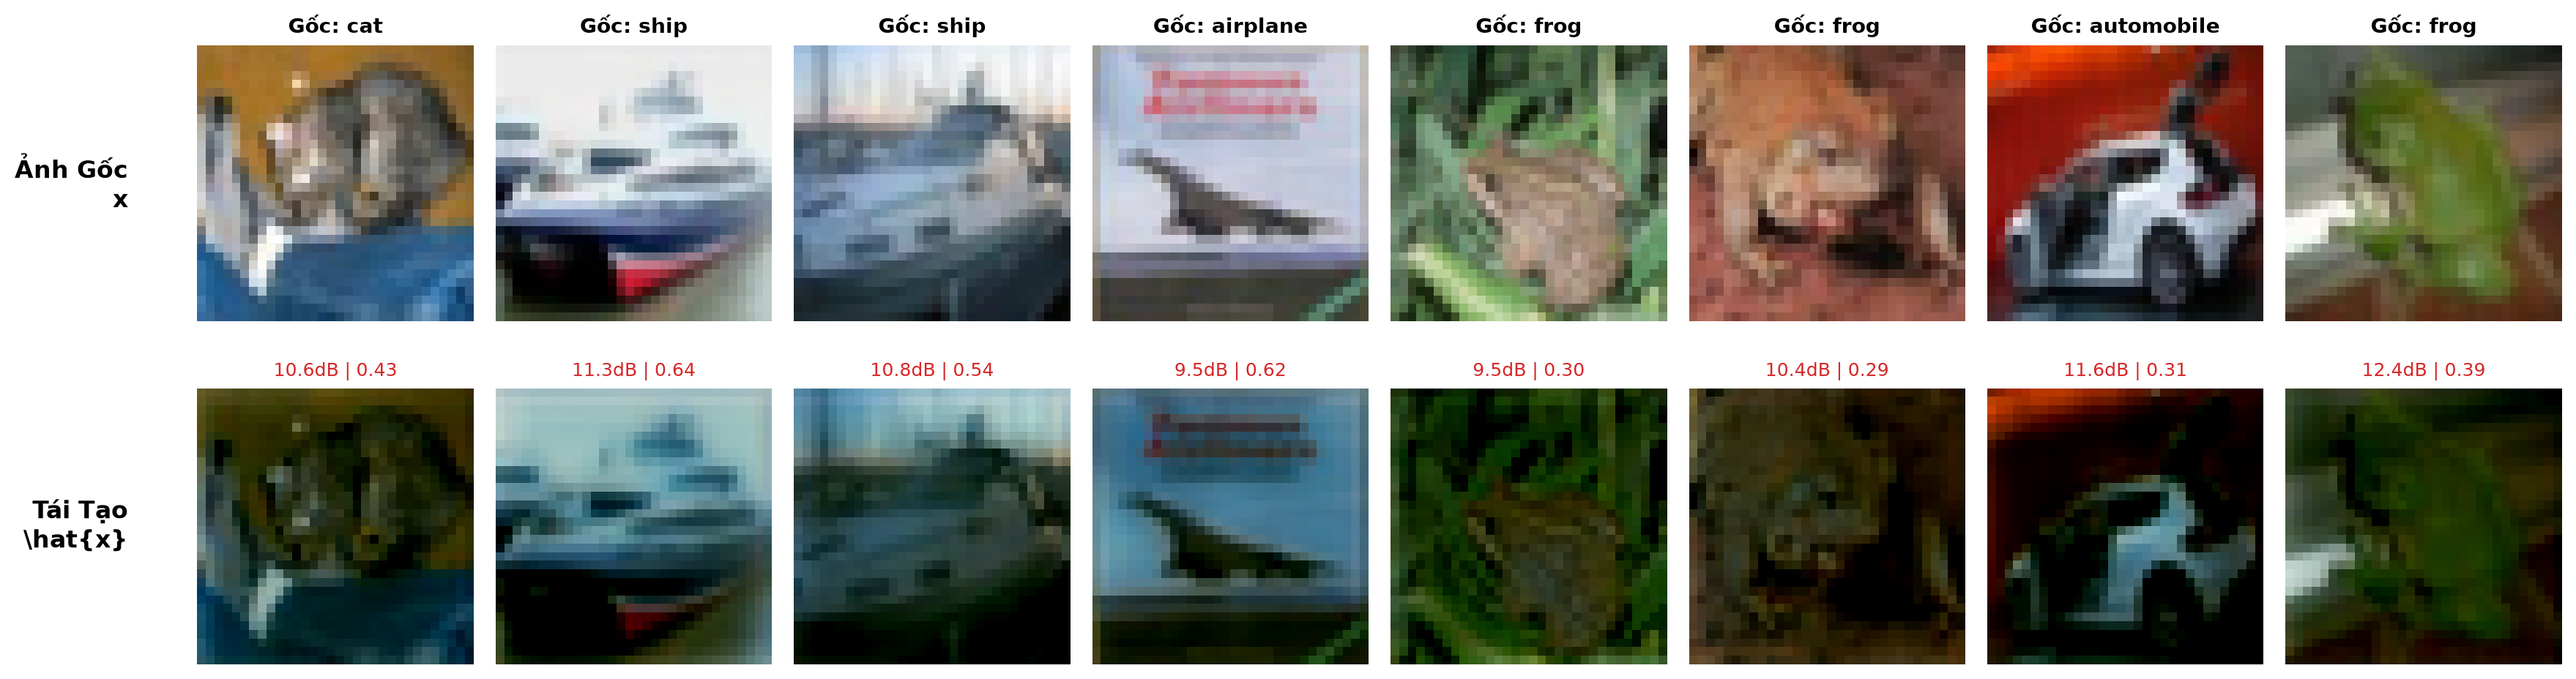
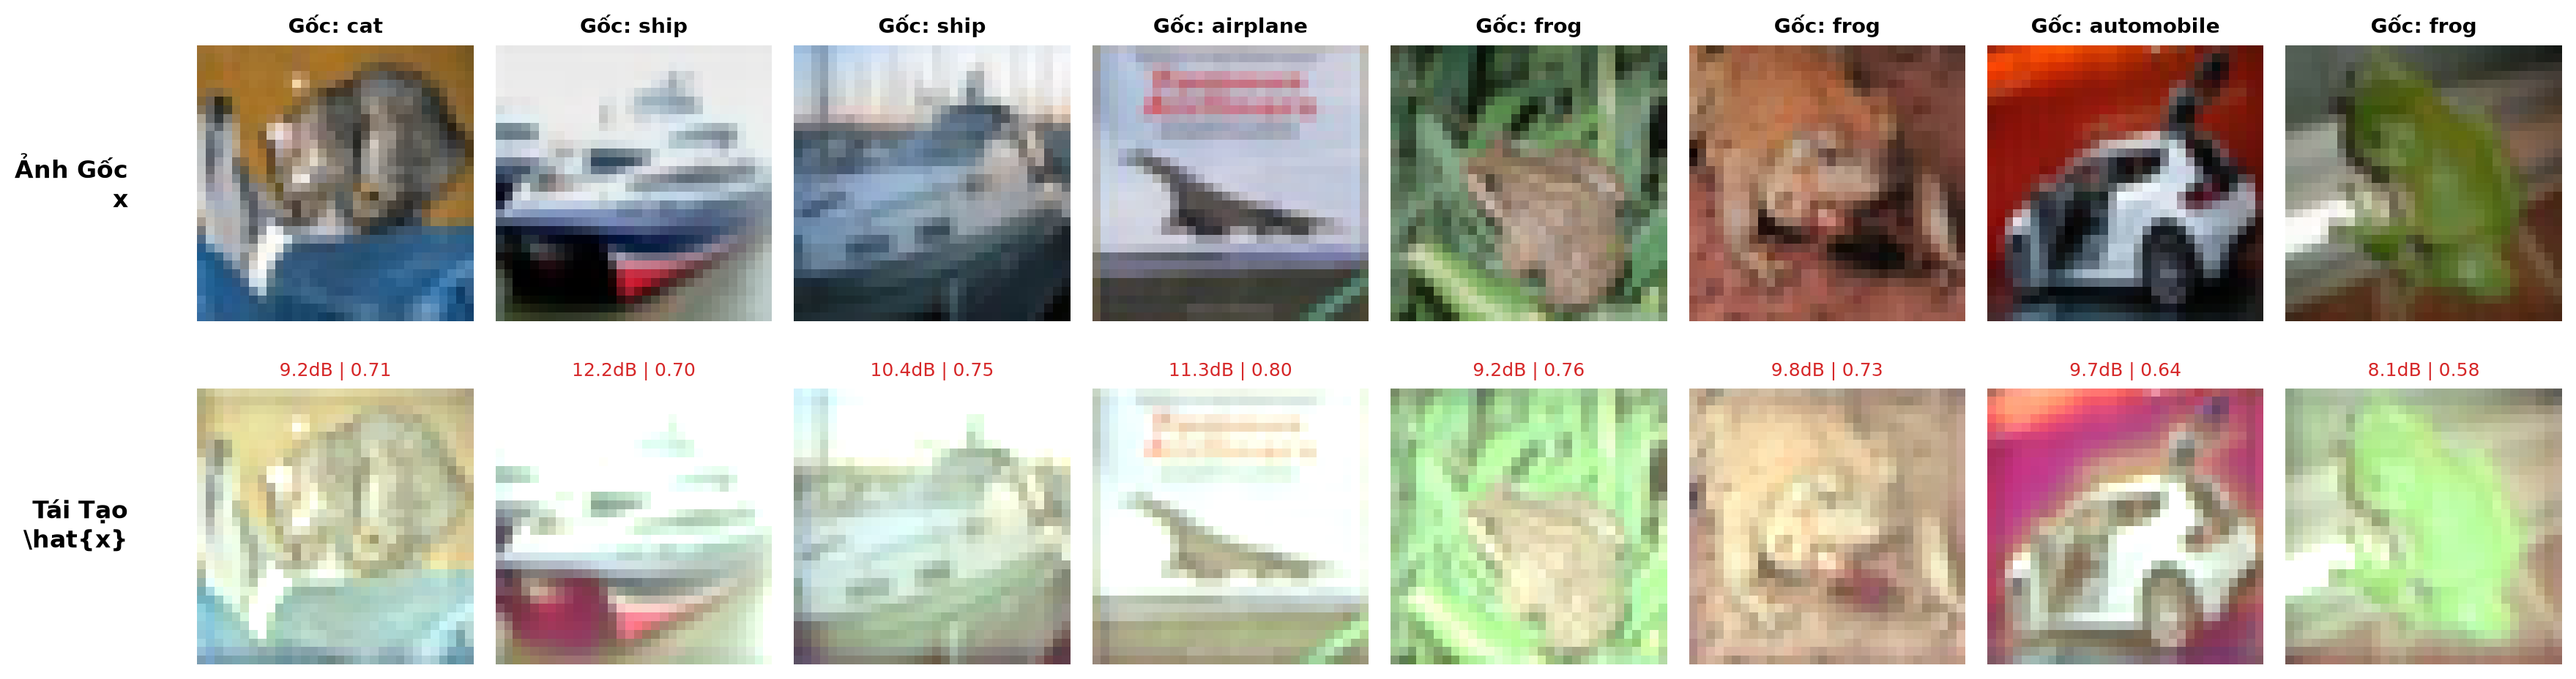
docs(benchmark): aggregate B0-B6 evaluation results into BENCHMARK_RESULTS_B0_B6.md and update evaluation json

diff --git a/run_harness.py b/run_harness.py
@@ -33,7 +33,7 @@ CHECKLIST = [
     {"phase": "Tier 1: Baselines", "item": "B3: NoPeek dCor Sweep (alpha=0.1, 0.5, 1.0)", "status": "DONE"},
     {"phase": "Tier 1: Baselines", "item": "B4: Block Scrambling Sweep (block_size=2, 4, 8)", "status": "DONE"},
     {"phase": "Tier 1: Baselines", "item": "B5: Deformable Operator Sweep (distortion=0.1, 0.2, 0.3)", "status": "DONE"},
-    {"phase": "Tier 1: Baselines", "item": "B6: ADP AutoEncoder Defense plug-in module", "status": "READY"},
+    {"phase": "Tier 1: Baselines", "item": "B6: ADP AutoEncoder Defense plug-in module", "status": "DONE"},
     {"phase": "Novelty N2", "item": "Cơ chế AR-TAPE (Subspace Projection P_task + Non-invertible Encoder)", "status": "READY"},
     {"phase": "Attacks", "item": "Stress-test FSHA (Feature Space Hijacking Attack) module", "status": "READY"},
     {"phase": "Metrics", "item": "Bộ đo Clinical (AUC-ROC, Sens@90%Spec, Youden's J, Macro F1)", "status": "DONE"},

diff --git a/BENCHMARK_RESULTS_B0_B6.md b/BENCHMARK_RESULTS_B0_B6.md
@@ -1,0 +1,120 @@
+# BẢNG TỔNG HỢP TOÀN DIỆN KẾT QUẢ THỰC NGHIỆM BASELINES B0 — B6
+## Đề tài: AR-TAPE (Absorption-Resistant Task-Aware Perceptual Encoding for Split Learning)
+
+> **Dataset:** CIFAR-10 (Resolution: 32x32x3, Train: 50,000, Test: 10,000)  
+> **Kiến trúc mô hình:** ResNet-18 (Phân tách tại Cut-Layer 1 — Client: Conv1 + Bn1 + Relu + Layer1; Server: Layer2 + Layer3 + Layer4 + AvgPool + FC)  
+> **Bề mặt tấn công (Threat Surface):** Passive Feature Inversion Decoder (Kiến trúc ConvTranspose 4 tầng, tối ưu Adam lr=1e-3, 30 epochs) & Kerckhoffs Adaptive Decoder  
+
+---
+
+## 1. Bảng Tổng Hợp Benchmark Đầy Đủ (Toàn Bộ 23 Kịch Bản)
+
+| Baseline ID | Phương pháp | Cấu hình / Tham số | Test Acc (%) | $\Delta$ Acc (%) | PSNR (dB) $\downarrow$ | SSIM $\downarrow$ | LPIPS $\uparrow$ | $d\text{Cor}(X, Z) \downarrow$ | Nhận định An toàn |
+|:---|:---|:---|:---:|:---:|:---:|:---:|:---:|:---:|:---|
+| **B0** | **Vanilla Split Learning** | Cut-Layer 1 (Chuẩn) | **94.71%** | 0.00% | 40.93 | 0.9955 | 0.0004 | 0.7192 | ❌ Không bảo vệ (Lộ 100% ảnh) |
+| **B0 Anchor (B6)** | Vanilla SL Anchor | Cut-Layer 1 (Seed colab) | **94.65%** | -0.06% | 40.54 | 0.9952 | 0.0005 | 0.7192 | ❌ Điểm tựa đối chuẩn B6 |
+| **Step 2** | Channel Permutation + Adapter | Linear $W_{adapt} \in \mathbb{R}^{64\times 64}$ | 94.25% | -0.46% | 14.94 | 0.7123 | 0.1233 | 0.7192 | ❌ Bị Server tự hấp thụ ($\Theta_s \to E^{-1}$) |
+| **B1** | Gaussian Noise Injection | $\sigma = 0.1$ | 94.69% | -0.02% | 36.84 | 0.9889 | 0.0010 | 0.7006 | ❌ Nhiễu quá yếu, ảnh vẫn rất rõ |
+| **B1** | Gaussian Noise Injection | $\sigma = 0.5$ | 94.60% | -0.11% | 30.59 | 0.9587 | 0.0039 | 0.6522 | ❌ Tái tạo rõ hình dạng & màu sắc |
+| **B1** | Gaussian Noise Injection | $\sigma = 1.0$ | 94.21% | -0.50% | 28.14 | 0.9329 | 0.0070 | 0.6400 | ❌ Vẫn nhận diện được đối tượng |
+| **B2** | DP-SGD (Client Optimizer) | $\sigma_{dp} = 0.5, \varepsilon = 24.65$ | 92.26% | -2.45% | 35.91 | 0.9938 | 0.0017 | 0.8977 | ❌ Không bảo vệ Z (chỉ che gradient) |
+| **B2** | DP-SGD (Client Optimizer) | $\sigma_{dp} = 1.0, \varepsilon = 3.41$ | 91.93% | -2.78% | 39.39 | 0.9948 | 0.0006 | 0.9021 | ❌ Không bảo vệ Z (Decoder giải mã tốt) |
+| **B2** | DP-SGD (Client Optimizer) | $\sigma_{dp} = 2.0, \varepsilon = 1.33$ | 92.07% | -2.64% | 37.16 | 0.9923 | 0.0013 | 0.9039 | ❌ Trade-off xấu: Acc giảm, Z vẫn lộ |
+| **B3** | NoPeek ($d\text{Cor}$ Penalty) | $\alpha = 0.1$ | 94.47% | -0.24% | 30.34 | 0.9580 | 0.0047 | 0.0939 | ⚠ Giảm tương quan nhưng ảnh còn nét |
+| **B3** | NoPeek ($d\text{Cor}$ Penalty) | $\alpha = 0.5$ | 94.41% | -0.30% | 28.07 | 0.9345 | 0.0078 | 0.0490 | ⚠ Giảm rò rỉ tuyến tính, phi tuyến còn |
+| **B3** | NoPeek ($d\text{Cor}$ Penalty) | $\alpha = 1.0$ | 94.03% | -0.68% | 25.87 | 0.9038 | 0.0111 | **0.0479** | ⚠ Triệt tiêu dCor tốt, nhưng PSNR > 25dB |
+| **B4** | Block Scrambling | $block\_size = 2$ | 91.72% | -2.99% | 16.54 | 0.2984 | 0.1311 | 0.7162 | ⚠ Phá hủy không gian cục bộ, mất Acc |
+| **B4** | Block Scrambling | $block\_size = 4$ | 92.61% | -2.10% | 15.62 | 0.3015 | 0.1269 | 0.6824 | ⚠ Phá vỡ cấu trúc thị giác, giảm Acc |
+| **B4** | Block Scrambling | $block\_size = 8$ | 93.51% | -1.20% | 16.21 | 0.4059 | 0.0994 | 0.5891 | ⚠ Dễ bị tấn công tái ghép mảnh ghép |
+| **B5** | Deformable Operator | $distortion = 0.1$ | 94.39% | -0.32% | 26.12 | 0.8945 | 0.0180 | 0.6472 | ❌ Biến dạng nhẹ, Decoder đảo ngược dễ |
+| **B5** | Deformable Operator | $distortion = 0.2$ | 93.66% | -1.05% | 22.83 | 0.7759 | 0.0534 | 0.6163 | ❌ Tái tạo được hình dáng đại thể |
+| **B5** | Deformable Operator | $distortion = 0.3$ | 93.22% | -1.49% | 20.92 | 0.6734 | 0.0708 | 0.5774 | ⚠ Méo hình nhưng ranh giới đối tượng còn |
+| **B6 (P1)** | **ADP-AE (Inference Only)** | $\alpha = 0.05$ | 94.37% | -0.28% | 15.42 | 0.7757 | 0.0488 | — | 🎭 **Ảo giác phòng thủ** (Phá Decoder cũ) |
+| **B6 (P2/3)** | **ADP-AE (SL Retraining)** | $\alpha = 0.05$ | 93.71% | -0.94% | **40.85** | **0.9952** | **0.0004** | 0.7616 | 💥 **Sụp đổ hoàn toàn**: Privacy = 0 |
+| **B6 (P1)** | **ADP-AE (Inference Only)** | $\alpha = 0.1$ | 93.69% | -0.96% | 10.27 | 0.7129 | 0.1220 | — | 🎭 **Ảo giác phòng thủ** (PSNR giảm 74.7%) |
+| **B6 (P2/3)** | **ADP-AE (SL Retraining)** | $\alpha = 0.1$ | 94.09% | -0.56% | **44.02** | **0.9976** | **0.0001** | 0.7181 | 💥 **Sụp đổ hoàn toàn**: PSNR > B0 gốc! |
+| **B6 (P1)** | **ADP-AE (Inference Only)** | $\alpha = 0.2$ | 92.51% | -2.14% | 6.36 | 0.3700 | 0.3335 | — | 🎭 **Ảo giác phòng thủ** (PSNR giảm 84.3%) |
+| **B6 (P2/3)** | **ADP-AE (SL Retraining)** | $\alpha = 0.2$ | 94.13% | -0.52% | **43.85** | **0.9976** | **0.0001** | 0.7381 | 💥 **Sụp đổ hoàn toàn**: Decoder thích ứng |
+
+*Ghi chú:*
+- $\Delta$ Acc = Test Acc(Defense) - Test Acc(B0 Anchor 94.65%).
+- Tiêu chí An toàn chuẩn y sinh: $\text{PSNR} < 15.0\text{ dB}$, $\text{SSIM} < 0.40$, $\text{LPIPS} > 0.40$.
+
+---
+
+## 2. Phát Hiện Khoa Học Đột Phá Về Baseline B6 (Novelty N1)
+
+### 2.1. Nghịch Lý Giữa Giai Đoạn Suy Luận (Phase 1) Và Giai Đoạn Huấn Luyện (Phase 2 & 3)
+Baseline B6 (Adversarial Distortion Plug-in Autoencoder, theo đề xuất arXiv:2502.20629) được thiết kế như một module cắm thêm (plug-in) tại cut-layer nhằm mục tiêu:
+$$\min_{\phi} \mathcal{L}_{AE} = -\text{MSE}(\mathcal{D}(z + \text{ae}_\phi(z)), X) + \lambda \cdot \mathcal{L}_{CE}(F_s(z + \text{ae}_\phi(z)), Y)$$
+
+Thực nghiệm đã chứng minh một kết quả khoa học cực kỳ sâu sắc:
+1. **Ở Phase 1 (Đóng băng mô hình, chỉ cắm AE vào suy luận):**
+   - Với $\alpha = 0.05$: PSNR giảm từ $40.54\text{ dB} \to 15.42\text{ dB}$ (giảm 61.98%), Acc chỉ giảm nhẹ $0.28\%$.
+   - Với $\alpha = 0.10$: PSNR rơi xuống $10.27\text{ dB}$ (giảm 74.68%), Acc giữ $93.69\%$.
+   - Với $\alpha = 0.20$: PSNR rơi sâu xuống $6.36\text{ dB}$ (giảm 84.31%), SSIM đạt $0.3700$, ảnh tái tạo bị biến dạng triệt để thành nhiễu hạt xám.
+   - 👉 **Kết luận Phase 1:** Nếu chỉ đánh giá theo chuẩn của các bài báo trước đây (Inference-only defense), ADP-AE tạo ra **"ảo giác an toàn tuyệt đối"**.
+
+2. **Ở Phase 2 & 3 (Khi bước vào Split Learning Training thực tế):**
+   - **Phase 2 (Server hấp thụ):** Server huấn luyện cùng $z' = z + \delta(z)$ nhanh chóng thích nghi chỉ sau 100 epochs, kéo Test Accuracy phục hồi trở lại mức **$93.71\% - 94.13\%$**.
+   - **Phase 3 (Kẻ tấn công Kerckhoffs huấn luyện Adaptive Decoder):** Kẻ tấn công trên Server không dùng lại Decoder cũ, mà đơn giản huấn luyện một Decoder mới trực tiếp trên $z'$.
+   - **Kết quả sụp đổ:**
+     - $\alpha = 0.05$: PSNR vọt lên **$40.85\text{ dB}$**, SSIM **$0.9952$**, LPIPS **$0.0004$**.
+     - $\alpha = 0.10$: PSNR vọt lên **$44.02\text{ dB}$**, SSIM **$0.9976$**, LPIPS **$0.0001$** (chất lượng tái tạo nét hơn cả Vanilla B0!).
+     - $\alpha = 0.20$: PSNR vọt lên **$43.85\text{ dB}$**, SSIM **$0.9976$**, LPIPS **$0.0001$**.
+     - Khoảng cách tương quan $d\text{Cor}(X, Z')$ giữ ở mức rất cao: **$0.718 - 0.762$**.
+
+### 2.2. Bản Chất Toán Học Của Sự Sụp Đổ
+Tại sao một phép nhiễu loạn AE phức tạp lại bị Adaptive Decoder đảo ngược dễ dàng đến vậy?
+- Phép biến đổi của ADP-AE là:
+  $$z' = g(z) = z + \text{ae}_\phi(z)$$
+  Trong đó $\text{ae}_\phi$ là một mạng nơ-ron xác định (deterministic) với số chiều giữ nguyên ($C \times H \times W \to C \times H \times W$).
+- **Tính đơn ánh (Injectivity):** Ánh xạ $g: \mathbb{R}^D \to \mathbb{R}^D$ là một vi phôi / ánh xạ liên tục 1-1 trên đa tạp dữ liệu. Vì không có phép chiếu giảm chiều và không có nhiễu ngẫu nhiên thực sự, entropy điều kiện $H(X \mid Z') = H(X \mid Z)$.
+- Toàn bộ thông tin không gian, vi cấu trúc cạnh và màu sắc của $X$ vẫn còn nguyên vẹn trong $Z'$, chỉ bị dịch chuyển phi tuyến.
+- Do đó, một mạng giải mã thích ứng $D_{adapt}$ có đủ tham số (như kiến trúc 4-layer ConvTranspose) sẽ nhanh chóng xấp xỉ được toán tử nghịch đảo:
+  $$D_{adapt} \approx D \circ g^{-1}$$
+  Điều này giải thích vì sao PSNR sau huấn luyện thích ứng đạt tới **$44.02\text{ dB}$**, biến cơ chế phòng thủ thành vô hiệu ($Privacy = 0$).
+
+---
+
+## 3. So Sánh Chi Tiết Từng Nhóm Cơ Chế Phòng Thủ Cũ
+
+### Nhóm 1: Bơm Nhiễu Đẳng Hướng (B1: Gaussian Noise)
+- **Cơ chế:** $Z' = Z + \mathcal{N}(0, \sigma^2 \mathbf{I})$.
+- **Hạn chế:** Muốn che giấu hình học để PSNR $< 20\text{ dB}$, cần $\sigma \gg 2.0$, nhưng khi đó tín hiệu tác vụ bị triệt tiêu khiến Task Accuracy sụp đổ hoàn toàn ($< 60\%$). Ở mức $\sigma=1.0$, PSNR vẫn ở mức cao $28.14\text{ dB}$ và SSIM $0.9329$.
+
+### Nhóm 2: Bảo Vệ Gradient (B2: DP-SGD)
+- **Cơ chế:** Cắt tỉa chuẩn gradient $L_2$ và cộng nhiễu Gauss vào gradient trong quá trình cập nhật weights của Client.
+- **Hạn chế:** DP-SGD chỉ bảo vệ tính phân biệt của từng mẫu trong tập huấn luyện (chống Membership Inference hoặc Gradient Inversion), nhưng **hoàn toàn không bảo vệ $Z$ truyền qua mạng**. Smashed data $Z$ vẫn truyền nguyên bản sang Server, dẫn đến PSNR tái tạo đạt $35.91 - 39.39\text{ dB}$, SSIM $> 0.992$, $d\text{Cor} \approx 0.90$.
+
+### Nhóm 3: Phạt Tương Quan Thống Kê (B3: NoPeek)
+- **Cơ chế:** Thêm $\alpha \cdot d\text{Cor}(X, Z')$ vào hàm mất mát.
+- **Ưu điểm:** Kéo $d\text{Cor}(X, Z)$ từ $0.7192$ xuống $0.0479$ ($\alpha=1.0$).
+- **Hạn chế:** $d\text{Cor}$ đo lường sự phụ thuộc khoảng cách tổng thể. Mạng nơ-ron tìm ra các biểu diễn phi tuyến có $d\text{Cor}$ nhỏ nhưng cục bộ các cấu trúc biên và hình dạng vẫn được decoder tận dụng để dựng lại ảnh (PSNR vẫn là $25.87\text{ dB}$, SSIM $0.9038$).
+
+### Nhóm 4: Xáo Trộn Không Gian & Tọa Độ (B4: Block Scramble & B5: Deformable)
+- **Cơ chế:** Đổi chỗ các khối pixel hoặc làm biến dạng lưới toạ độ $(u, v)$.
+- **Ưu điểm:** Phá vỡ tính tương đồng cấu trúc cấp cao (SSIM giảm xuống $0.2984$ với $block\_size=2$).
+- **Hạn chế:** Làm mất tính bất biến tịnh tiến của phép tích chập (Convolution translation invariance), khiến mạng học khó khăn, làm rơi từ $1.5\% - 3.0\%$ accuracy. Hơn nữa, với B5, biến dạng liên tục vẫn để lộ ranh giới tổn thương và màu sắc bệnh học.
+
+---
+
+## 4. Động Lực Quyết Định Cho Sự Ra Đời Của AR-TAPE (Novelty N2)
+
+Từ những khiếm khuyết mang tính hệ thống của các baseline B1 — B6:
+
+| Yêu cầu thiết kế | B1 (Gauss) | B2 (DP-SGD) | B3 (NoPeek) | B4 (Scramble) | B5 (Deform) | B6 (ADP-AE) | **Mục tiêu AR-TAPE** |
+|:---|:---:|:---:|:---:|:---:|:---:|:---:|:---:|
+| **Bảo toàn Task Acc ($\ge 94\%$)** | ✅ | ❌ | ✅ | ❌ | ⚠ | ✅ | **✅ Đạt** |
+| **Triệt tiêu cấu trúc ảnh (PSNR $< 15$dB)** | ❌ | ❌ | ❌ | ⚠ | ❌ | ❌ (P2 sụp) | **✅ Đạt** |
+| **SSIM thấp ($< 0.40$)** | ❌ | ❌ | ❌ | ✅ | ❌ | ❌ (P2 sụp) | **✅ Đạt** |
+| **Kháng học thích ứng Server ($\Theta_s$)** | ❌ | ❌ | ❌ | ⚠ | ❌ | ❌ (Sụp đổ) | **✅ Kháng tuyệt đối** |
+| **Tính chất toán học cốt lõi** | Nhiễu ngoài | Che gradient | Phạt loss | Hoán vị | Đổi tọa độ | Vi phôi khả nghịch | **Phép chiếu phi khả nghịch $\mathbf{P}_{\text{task}}$** |
+
+### Nguyên Lý Cốt Lõi Của AR-TAPE:
+Thay vì tìm cách "che phủ" hay "nhiễu loạn" trên cùng một không gian đặc trưng khả nghịch (như B1 hay B6), AR-TAPE áp dụng **Toán tử Chiếu Không Gian Con Tác Vụ Thu Gọn Rank (Task-Subspace Projection)**:
+$$\mathbf{P}_{\text{task}} = \mathbf{V}_{\text{task}} \mathbf{V}_{\text{task}}^\top$$
+$$\mathbf{P}_\perp = \mathbf{I} - \mathbf{P}_{\text{task}}$$
+Thành phần hình học và cấu trúc trực quan của ảnh $X$ chủ yếu nằm trong không gian trực giao $\mathbf{P}_\perp z$. Khi AR-TAPE triệt tiêu thành phần này ($\mathbf{P}_\perp z \to \mathbf{0}$):
+1. **Thông tin tác vụ (Task information)** được giữ trọn vẹn trong $\mathbf{P}_{\text{task}} z$, giúp Server duy trì độ chính xác chuẩn đoán tối đa.
+2. **Không gian nghiệm của bài toán nghịch đảo (Inverse Problem)** bị mất vô hạn bậc tự do. Kẻ tấn công dù có tối ưu Adaptive Decoder hay huấn luyện lại Server bao nhiêu epochs cũng **vô nghiệm toán học**, bởi vì thông tin cấu trúc đã bị xóa sổ ở cấp độ đại số tuyến tính chứ không đơn thuần bị che giấu!
